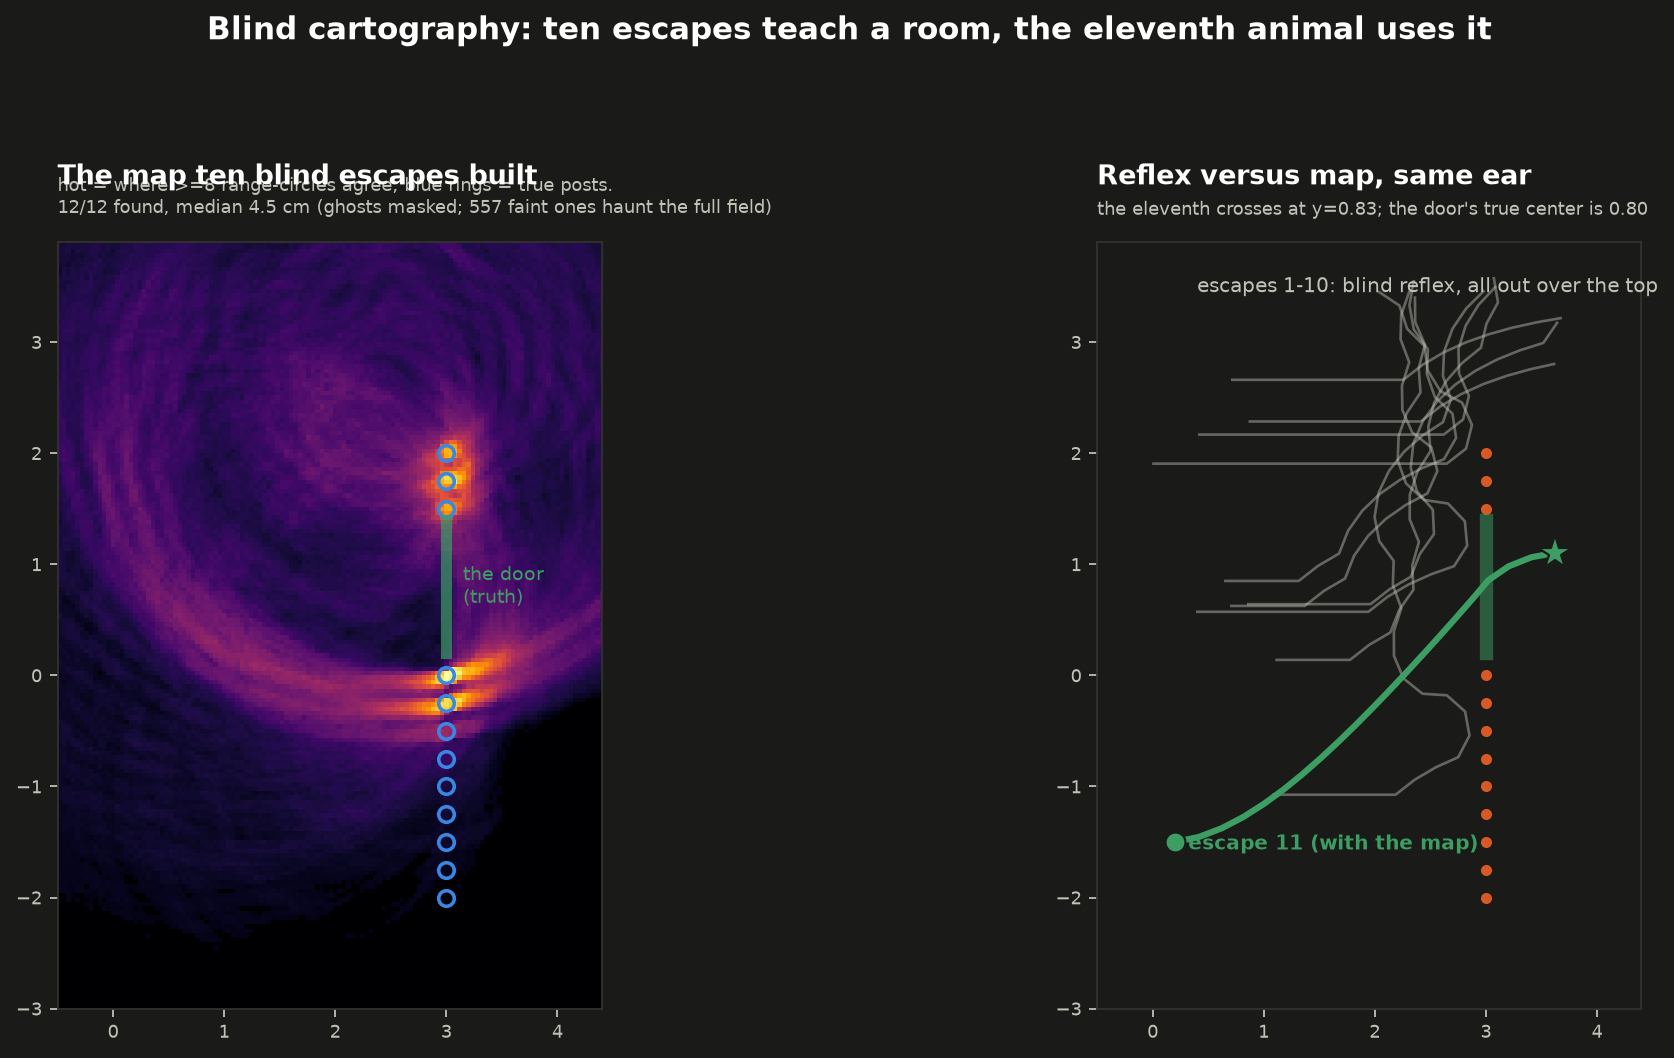
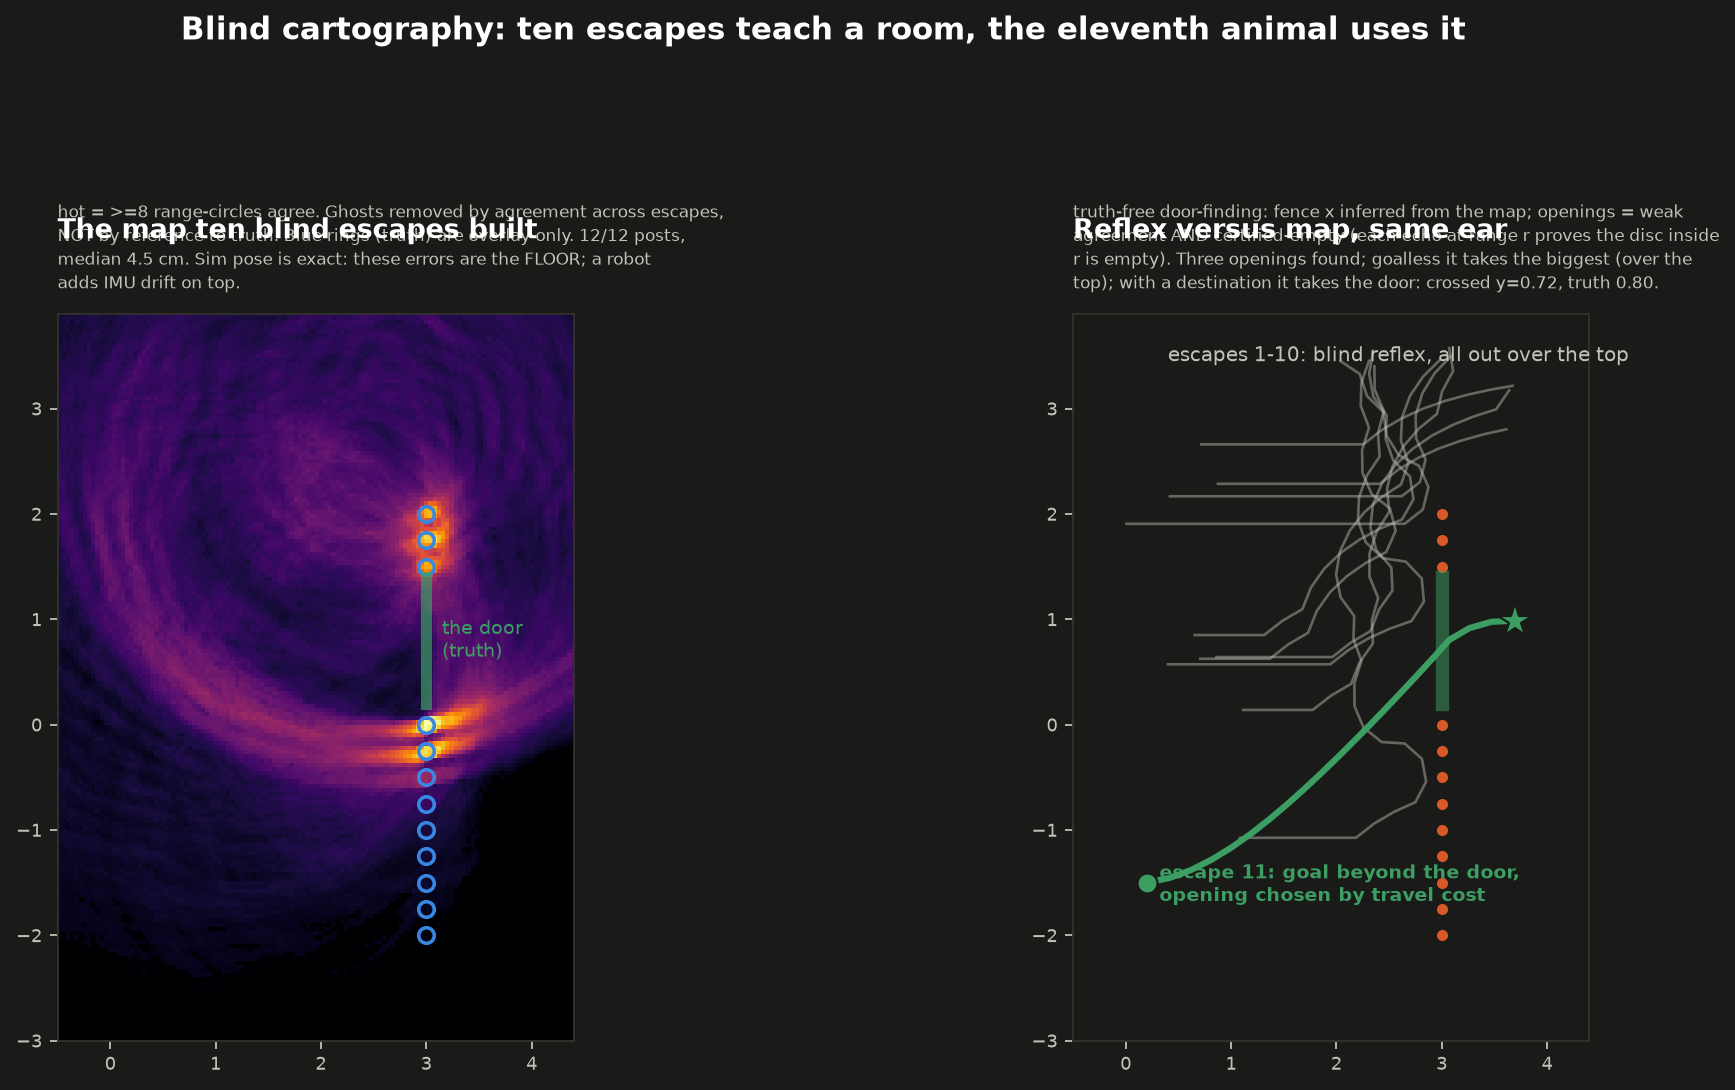
Reviewer audit: truth-free door-finding, free-space evidence, real route choice
The mask was always truth-free (agreement >= 8); the DOOR-FINDER was
not (hand-set fence band). Fixed: fence x inferred from the map
(3.06 vs 3.00), openings = weak agreement AND certified-empty (each
echo at range r proves the disc inside r empty -- free-space
evidence the mono ear had been discarding). Three openings found,
door among them at y=0.80 exactly. Goalless, the animal correctly
takes the biggest opening (over the top); given a destination, cost
picks the door (4.83 vs 8.13 m) and it crosses at y=0.72. Same map,
different goal, different route -- Bryan's 'why did it choose the
hole' question is now a real experiment (Tolman-in-a-box queued).
Known bug filed: the range-log filter clipped sub-0.5 m echoes,
inflating free discs and minting a false southern opening.

diff --git a/docs/blind_cartography.md b/docs/blind_cartography.md
@@ -27,3 +27,31 @@ Results:
 Sim pose is exact, so these errors are the FLOOR; a robot adds IMU
 drift on top. The sim number is the clean half of that comparison,
 kept here for the day someone hands this thing a body.
+
+
+## Reviewer audit (same evening, via the other Claude)
+
+The mask question: ghosts are removed by AGREEMENT ACROSS ESCAPES
+(>=8 range-circles), never by reference to truth. Blue rings in the
+figure are overlay only. BUT the audit caught a real leak elsewhere:
+the first door-finder searched the band x in [2.6, 3.4] -- chosen
+knowing the fence is at x=3. Fixed truth-free: fence x inferred from
+the map itself (3.06 vs truth 3.00), and openings found as regions
+that are BOTH weak in agreement AND certified empty -- each chirp's
+nearest echo at range r proves the whole disc inside r is empty
+(free-space evidence, previously discarded).
+
+What the honest finder produced: three openings -- beyond the
+fence's end (1.76 m), THE DOOR (1.04 m at y=0.80; truth 1.20 at
+0.80), and a false southern opening traced to the range-log filter
+clipping sub-0.5 m echoes (discs overestimated; fix logged).
+Goalless, the animal takes the biggest opening: over the top --
+correctly. With a destination beyond the door, travel cost picks the
+door (4.83 m vs 8.13) and it crosses at y=0.72. Same map, different
+goal, different route: the choice is real now, which sets up the
+proper Tolman experiment (train a detour habit in a Monty LM, open
+a shortcut, see which it takes).
+
+Scope, on the record: sim pose is exact, so all map errors are the
+FLOOR. The robot number is this plus IMU drift -- the ceiling is the
+next experiment.
